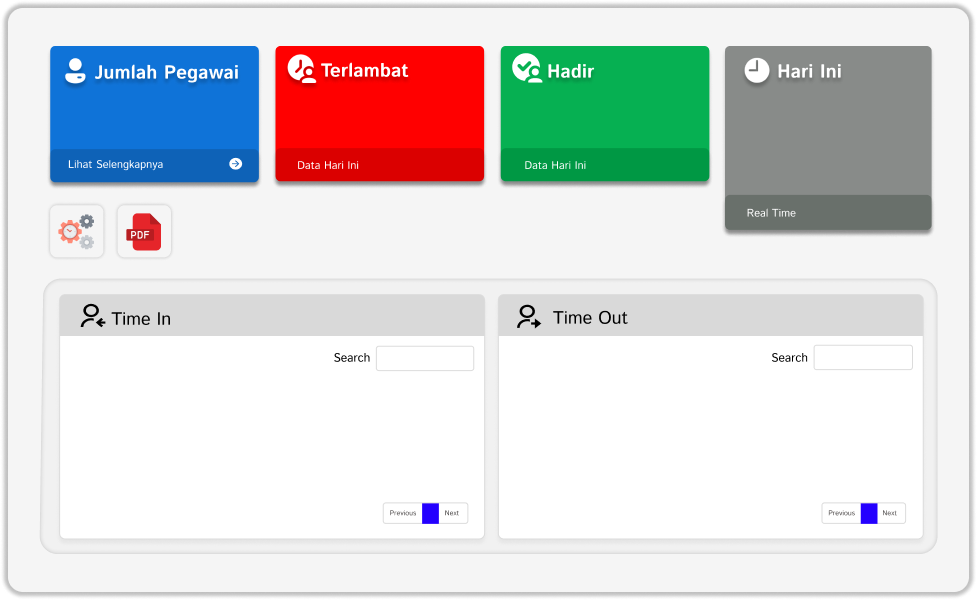
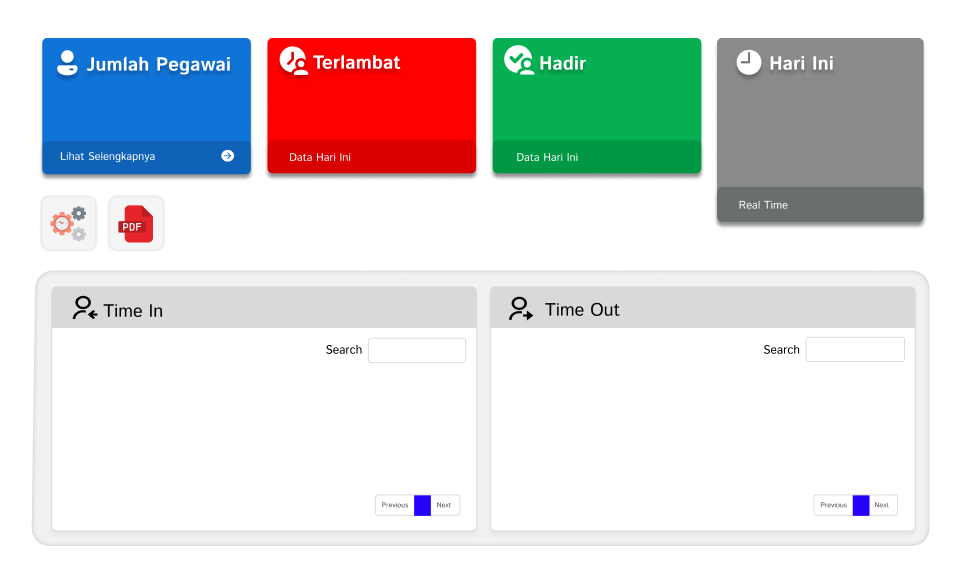
absensi

diff --git a/src/absensikaryawan/absen.java b/src/absensikaryawan/absen.java
@@ -23,6 +23,7 @@ import java.awt.Graphics;
 import java.awt.event.KeyEvent;
 import java.awt.event.MouseAdapter;
 import java.awt.event.MouseEvent;
+import java.sql.Statement;
 import java.text.ParseException;
 import java.text.SimpleDateFormat;
 import java.util.ArrayList;
@@ -659,41 +660,42 @@ private void execute() {
     }//GEN-LAST:event_cmdPreviousKeyPressed
 
     private void timeinActionPerformed(java.awt.event.ActionEvent evt) {//GEN-FIRST:event_timeinActionPerformed
-        LocalDateTime now = LocalDateTime.now();
-        DateTimeFormatter dateFormatter = DateTimeFormatter.ofPattern("yyyy-MM-dd");
-        String formattedDate = now.format(dateFormatter);
+    LocalDateTime now = LocalDateTime.now();
+    DateTimeFormatter dateFormatter = DateTimeFormatter.ofPattern("yyyy-MM-dd");
+    String formattedDate = now.format(dateFormatter);
 
-        boolean recordExists = checkRecordExists(formattedDate);
+    boolean recordExists = checkRecordExists(formattedDate);
 
-        if (!recordExists) {
-            DateTimeFormatter dateTimeFormatter = DateTimeFormatter.ofPattern("yyyy-MM-dd HH:mm");
-            String formattedDateTime = now.format(dateTimeFormatter);
+    if (!recordExists) {
+        DateTimeFormatter dateTimeFormatter = DateTimeFormatter.ofPattern("yyyy-MM-dd HH:mm");
+        String formattedDateTime = now.format(dateTimeFormatter);
+        String time = formattedDateTime.substring(11, 16); // Extracting "HH:mm"
 
-            try (java.sql.Connection conn = koneksi.configDB();
-                PreparedStatement pstmt = conn.prepareStatement("INSERT INTO absensi (status_absensi, id_absensi, id_user, time_in) VALUES (?, ?, ?, ?)")) {
-                // Set values for status_absensi, id_user, and time_in columns
-                String idAbsen = generateUserId(conn);
-                pstmt.setString(1, getTimeStatus(formattedDateTime.substring(11, 16))); // Set status based on time_in value (hours and minutes only)
-                pstmt.setString(2, idAbsen);
-                pstmt.setString(3, userId); // Replace someUserId with the actual user ID
-                pstmt.setString(4, formattedDateTime); // Insert the current date and time
+        try (java.sql.Connection conn = koneksi.configDB();
+             PreparedStatement pstmt = conn.prepareStatement("INSERT INTO absensi (status_absensi, id_absensi, id_user, time_in) VALUES (?, ?, ?, ?)")) {
 
-                // Execute the INSERT query
-                pstmt.executeUpdate();
-                setTimeFromDatabase();
+            String idAbsen = generateUserId(conn);
+            pstmt.setString(1, getTimeStatus(time)); // Set status based on time_in value (hours and minutes only)
+            pstmt.setString(2, idAbsen);
+            pstmt.setString(3, userId); // Replace userId with the actual user ID
+            pstmt.setString(4, formattedDateTime); // Insert the current date and time
 
-                System.out.println("UserID: " + userId);
+            // Execute the INSERT query
+            pstmt.executeUpdate();
+            setTimeFromDatabase();
 
-                // Display a message indicating successful insertion
-                JOptionPane.showMessageDialog(this, "Time inserted into database successfully.", "Success", JOptionPane.INFORMATION_MESSAGE);
-            } catch (SQLException e) {
-                e.printStackTrace();
-            }
-        } else {
-            // Display a message indicating that a record already exists for the current date
-            JOptionPane.showMessageDialog(this, "A record for today already exists.", "Warning", JOptionPane.WARNING_MESSAGE);
+            System.out.println("UserID: " + userId);
+
+            // Display a message indicating successful insertion
+            JOptionPane.showMessageDialog(this, "Time inserted into database successfully.", "Success", JOptionPane.INFORMATION_MESSAGE);
+        } catch (SQLException e) {
+            e.printStackTrace();
         }
-        }
+    } else {
+        // Display a message indicating that a record already exists for the current date
+        JOptionPane.showMessageDialog(this, "A record for today already exists.", "Warning", JOptionPane.WARNING_MESSAGE);
+    }
+}
 
         // Method to check if a record for the specified date already exists in the database
         private boolean checkRecordExists(String date) {
@@ -715,16 +717,63 @@ private void execute() {
             return recordExists;
         }
 
-        private String getTimeStatus(String time) {
-            String[] parts = time.split(":");
-            int hours = Integer.parseInt(parts[0]);
-            int minutes = Integer.parseInt(parts[1]);
+private String getTimeStatus(String time) {
+    String databaseTime = getTimeFromDatabase();
 
-            if (hours > 7 || (hours == 7 && minutes > 0)) {
-                return "terlambat";
-            } else {
-                return "tepat waktu"; // You can set another status here if needed
+    if (databaseTime == null) {
+        throw new RuntimeException("Failed to retrieve waktuAbsensi from database.");
+    }
+
+    String[] parts = databaseTime.split(":");
+    int databaseHours = Integer.parseInt(parts[0]);
+    int databaseMinutes = Integer.parseInt(parts[1]);
+
+    String[] currentTimeParts = time.split(":");
+    int currentHours = Integer.parseInt(currentTimeParts[0]);
+    int currentMinutes = Integer.parseInt(currentTimeParts[1]);
+
+    if (currentHours > databaseHours || (currentHours == databaseHours && currentMinutes > databaseMinutes)) {
+        return "terlambat";
+    } else {
+        return "tepat waktu";
+    }
+}
+
+    private String getTimeFromDatabase() {
+        Connection connection = null;
+        Statement statement = null;
+        ResultSet resultSet = null;
+        String time = null;
+
+        try {
+            // Establish connection to the database using your config method
+            connection = koneksi.configDB();
+
+            // Create a statement
+            statement = connection.createStatement();
+
+            // Execute the query
+            String sql = "SELECT waktuAbsensi FROM setting_absensi LIMIT 1";
+            resultSet = statement.executeQuery(sql);
+
+            // Process the result set
+            if (resultSet.next()) {
+                time = resultSet.getString("waktuAbsensi");
             }
+
+        } catch (SQLException e) {
+            e.printStackTrace();
+        } finally {
+            // Close the resources
+            try {
+                if (resultSet != null) resultSet.close();
+                if (statement != null) statement.close();
+                if (connection != null) connection.close();
+            } catch (SQLException e) {
+                e.printStackTrace();
+            }
+        }
+        return time;
     }//GEN-LAST:event_timeinActionPerformed
 
     private void timeoutActionPerformed(java.awt.event.ActionEvent evt) {//GEN-FIRST:event_timeoutActionPerformed

diff --git a/src/absensiowner/panelAbsenOwner.java b/src/absensiowner/panelAbsenOwner.java
@@ -469,7 +469,7 @@ private void countAttendanceStatus() {
                 settingbuttonActionPerformed(evt);
             }
         });
-        add(settingbutton, new org.netbeans.lib.awtextra.AbsoluteConstraints(50, 200, 50, 60));
+        add(settingbutton, new org.netbeans.lib.awtextra.AbsoluteConstraints(40, 200, 50, 60));
 
         pdfbutton.setBorder(null);
         pdfbutton.setContentAreaFilled(false);
@@ -478,7 +478,7 @@ private void countAttendanceStatus() {
                 pdfbuttonActionPerformed(evt);
             }
         });
-        add(pdfbutton, new org.netbeans.lib.awtextra.AbsoluteConstraints(120, 200, 50, 60));
+        add(pdfbutton, new org.netbeans.lib.awtextra.AbsoluteConstraints(110, 200, 50, 60));
 
         next2.setBorder(null);
         next2.setBorderPainted(false);
@@ -488,7 +488,7 @@ private void countAttendanceStatus() {
                 next2ActionPerformed(evt);
             }
         });
-        add(next2, new org.netbeans.lib.awtextra.AbsoluteConstraints(880, 500, 30, 20));
+        add(next2, new org.netbeans.lib.awtextra.AbsoluteConstraints(870, 500, 30, 20));
 
         timein.setFont(new java.awt.Font("Arial", 1, 12)); // NOI18N
         timein.setModel(new javax.swing.table.DefaultTableModel(
@@ -510,7 +510,7 @@ private void countAttendanceStatus() {
         TerlambatJ.setForeground(new java.awt.Color(255, 255, 255));
         TerlambatJ.setHorizontalAlignment(javax.swing.SwingConstants.CENTER);
         TerlambatJ.setText("-");
-        add(TerlambatJ, new org.netbeans.lib.awtextra.AbsoluteConstraints(280, 90, 200, 40));
+        add(TerlambatJ, new org.netbeans.lib.awtextra.AbsoluteConstraints(280, 90, 190, 40));
 
         timeout.setFont(new java.awt.Font("Arial", 1, 12)); // NOI18N
         timeout.setModel(new javax.swing.table.DefaultTableModel(
@@ -546,20 +546,20 @@ private void countAttendanceStatus() {
                 detailpegawaiActionPerformed(evt);
             }
         });
-        add(detailpegawai, new org.netbeans.lib.awtextra.AbsoluteConstraints(180, 150, 80, 30));
+        add(detailpegawai, new org.netbeans.lib.awtextra.AbsoluteConstraints(180, 150, 70, 30));
 
         num2.setFont(new java.awt.Font("Arial", 1, 10)); // NOI18N
         num2.setForeground(new java.awt.Color(255, 255, 255));
         num2.setHorizontalAlignment(javax.swing.SwingConstants.CENTER);
         num2.setText("1");
         num2.setHorizontalTextPosition(javax.swing.SwingConstants.CENTER);
-        add(num2, new org.netbeans.lib.awtextra.AbsoluteConstraints(859, 499, 20, 30));
+        add(num2, new org.netbeans.lib.awtextra.AbsoluteConstraints(857, 499, 10, 30));
 
         HadirJ.setFont(new java.awt.Font("Arial", 1, 24)); // NOI18N
         HadirJ.setForeground(new java.awt.Color(255, 255, 255));
         HadirJ.setHorizontalAlignment(javax.swing.SwingConstants.CENTER);
         HadirJ.setText("-");
-        add(HadirJ, new org.netbeans.lib.awtextra.AbsoluteConstraints(510, 90, 190, 40));
+        add(HadirJ, new org.netbeans.lib.awtextra.AbsoluteConstraints(510, 90, 170, 40));
 
         downloadpdf.setBorderPainted(false);
         downloadpdf.setContentAreaFilled(false);
@@ -573,7 +573,7 @@ private void countAttendanceStatus() {
                 prev2ActionPerformed(evt);
             }
         });
-        add(prev2, new org.netbeans.lib.awtextra.AbsoluteConstraints(830, 500, 30, 20));
+        add(prev2, new org.netbeans.lib.awtextra.AbsoluteConstraints(820, 500, 30, 20));
 
         next1.setBorder(null);
         next1.setBorderPainted(false);
@@ -583,18 +583,18 @@ private void countAttendanceStatus() {
                 next1ActionPerformed(evt);
             }
         });
-        add(next1, new org.netbeans.lib.awtextra.AbsoluteConstraints(440, 500, 30, 20));
+        add(next1, new org.netbeans.lib.awtextra.AbsoluteConstraints(430, 500, 30, 20));
 
         lbl_jumlahuser.setFont(new java.awt.Font("Arial", 1, 24)); // NOI18N
         lbl_jumlahuser.setForeground(new java.awt.Color(255, 255, 255));
         lbl_jumlahuser.setHorizontalAlignment(javax.swing.SwingConstants.CENTER);
         lbl_jumlahuser.setText("-");
-        add(lbl_jumlahuser, new org.netbeans.lib.awtextra.AbsoluteConstraints(50, 90, 210, 40));
+        add(lbl_jumlahuser, new org.netbeans.lib.awtextra.AbsoluteConstraints(50, 90, 190, 40));
 
         lbl_year.setFont(new java.awt.Font("Arial", 1, 18)); // NOI18N
         lbl_year.setForeground(new java.awt.Color(255, 255, 255));
         lbl_year.setText("-");
-        add(lbl_year, new org.netbeans.lib.awtextra.AbsoluteConstraints(750, 100, 110, -1));
+        add(lbl_year, new org.netbeans.lib.awtextra.AbsoluteConstraints(750, 100, 150, -1));
 
         total1.setText("-");
         add(total1, new org.netbeans.lib.awtextra.AbsoluteConstraints(70, 510, 300, -1));
@@ -620,10 +620,10 @@ private void countAttendanceStatus() {
                 prev1ActionPerformed(evt);
             }
         });
-        add(prev1, new org.netbeans.lib.awtextra.AbsoluteConstraints(380, 500, 40, 20));
+        add(prev1, new org.netbeans.lib.awtextra.AbsoluteConstraints(380, 500, 30, 20));
 
         cari1.setBorder(null);
-        add(cari1, new org.netbeans.lib.awtextra.AbsoluteConstraints(380, 350, 90, -1));
+        add(cari1, new org.netbeans.lib.awtextra.AbsoluteConstraints(380, 350, 80, -1));
 
         cari2.setBorder(null);
         cari2.addActionListener(new java.awt.event.ActionListener() {
@@ -631,17 +631,17 @@ private void countAttendanceStatus() {
                 cari2ActionPerformed(evt);
             }
         });
-        add(cari2, new org.netbeans.lib.awtextra.AbsoluteConstraints(820, 350, 90, -1));
+        add(cari2, new org.netbeans.lib.awtextra.AbsoluteConstraints(820, 350, 70, -1));
 
         num1.setFont(new java.awt.Font("Arial", 1, 10)); // NOI18N
         num1.setForeground(new java.awt.Color(255, 255, 255));
         num1.setHorizontalAlignment(javax.swing.SwingConstants.CENTER);
         num1.setText("1");
         num1.setHorizontalTextPosition(javax.swing.SwingConstants.CENTER);
-        add(num1, new org.netbeans.lib.awtextra.AbsoluteConstraints(420, 498, 20, 30));
+        add(num1, new org.netbeans.lib.awtextra.AbsoluteConstraints(418, 498, 10, 30));
 
         bg.setIcon(new javax.swing.ImageIcon(getClass().getResource("/absensiowner/bg.png"))); // NOI18N
-        add(bg, new org.netbeans.lib.awtextra.AbsoluteConstraints(0, 0, -1, 600));
+        add(bg, new org.netbeans.lib.awtextra.AbsoluteConstraints(0, 0, 980, 600));
     }// </editor-fold>//GEN-END:initComponents
 
     private void next2ActionPerformed(java.awt.event.ActionEvent evt) {//GEN-FIRST:event_next2ActionPerformed

diff --git a/src/absensiowner/Setting.java b/src/absensiowner/Setting.java
@@ -171,7 +171,7 @@ public class Setting extends javax.swing.JFrame {
                 confirmActionPerformed(evt);
             }
         });
-        getContentPane().add(confirm, new org.netbeans.lib.awtextra.AbsoluteConstraints(150, 230, 100, 30));
+        getContentPane().add(confirm, new org.netbeans.lib.awtextra.AbsoluteConstraints(150, 230, 100, 20));
 
         combopanel.setBackground(new java.awt.Color(255, 255, 255));
 

diff --git a/src/absensiowner/Pilih.java b/src/absensiowner/Pilih.java
@@ -193,7 +193,7 @@ private void setUserID(int userID) {
     }//GEN-LAST:event_kembaliMouseClicked
 
     private void clear_btnActionPerformed(java.awt.event.ActionEvent evt) {//GEN-FIRST:event_clear_btnActionPerformed
-            sampais.setText("");
+    sampais.setText("");
     daris.setText("");
     }//GEN-LAST:event_clear_btnActionPerformed
 
